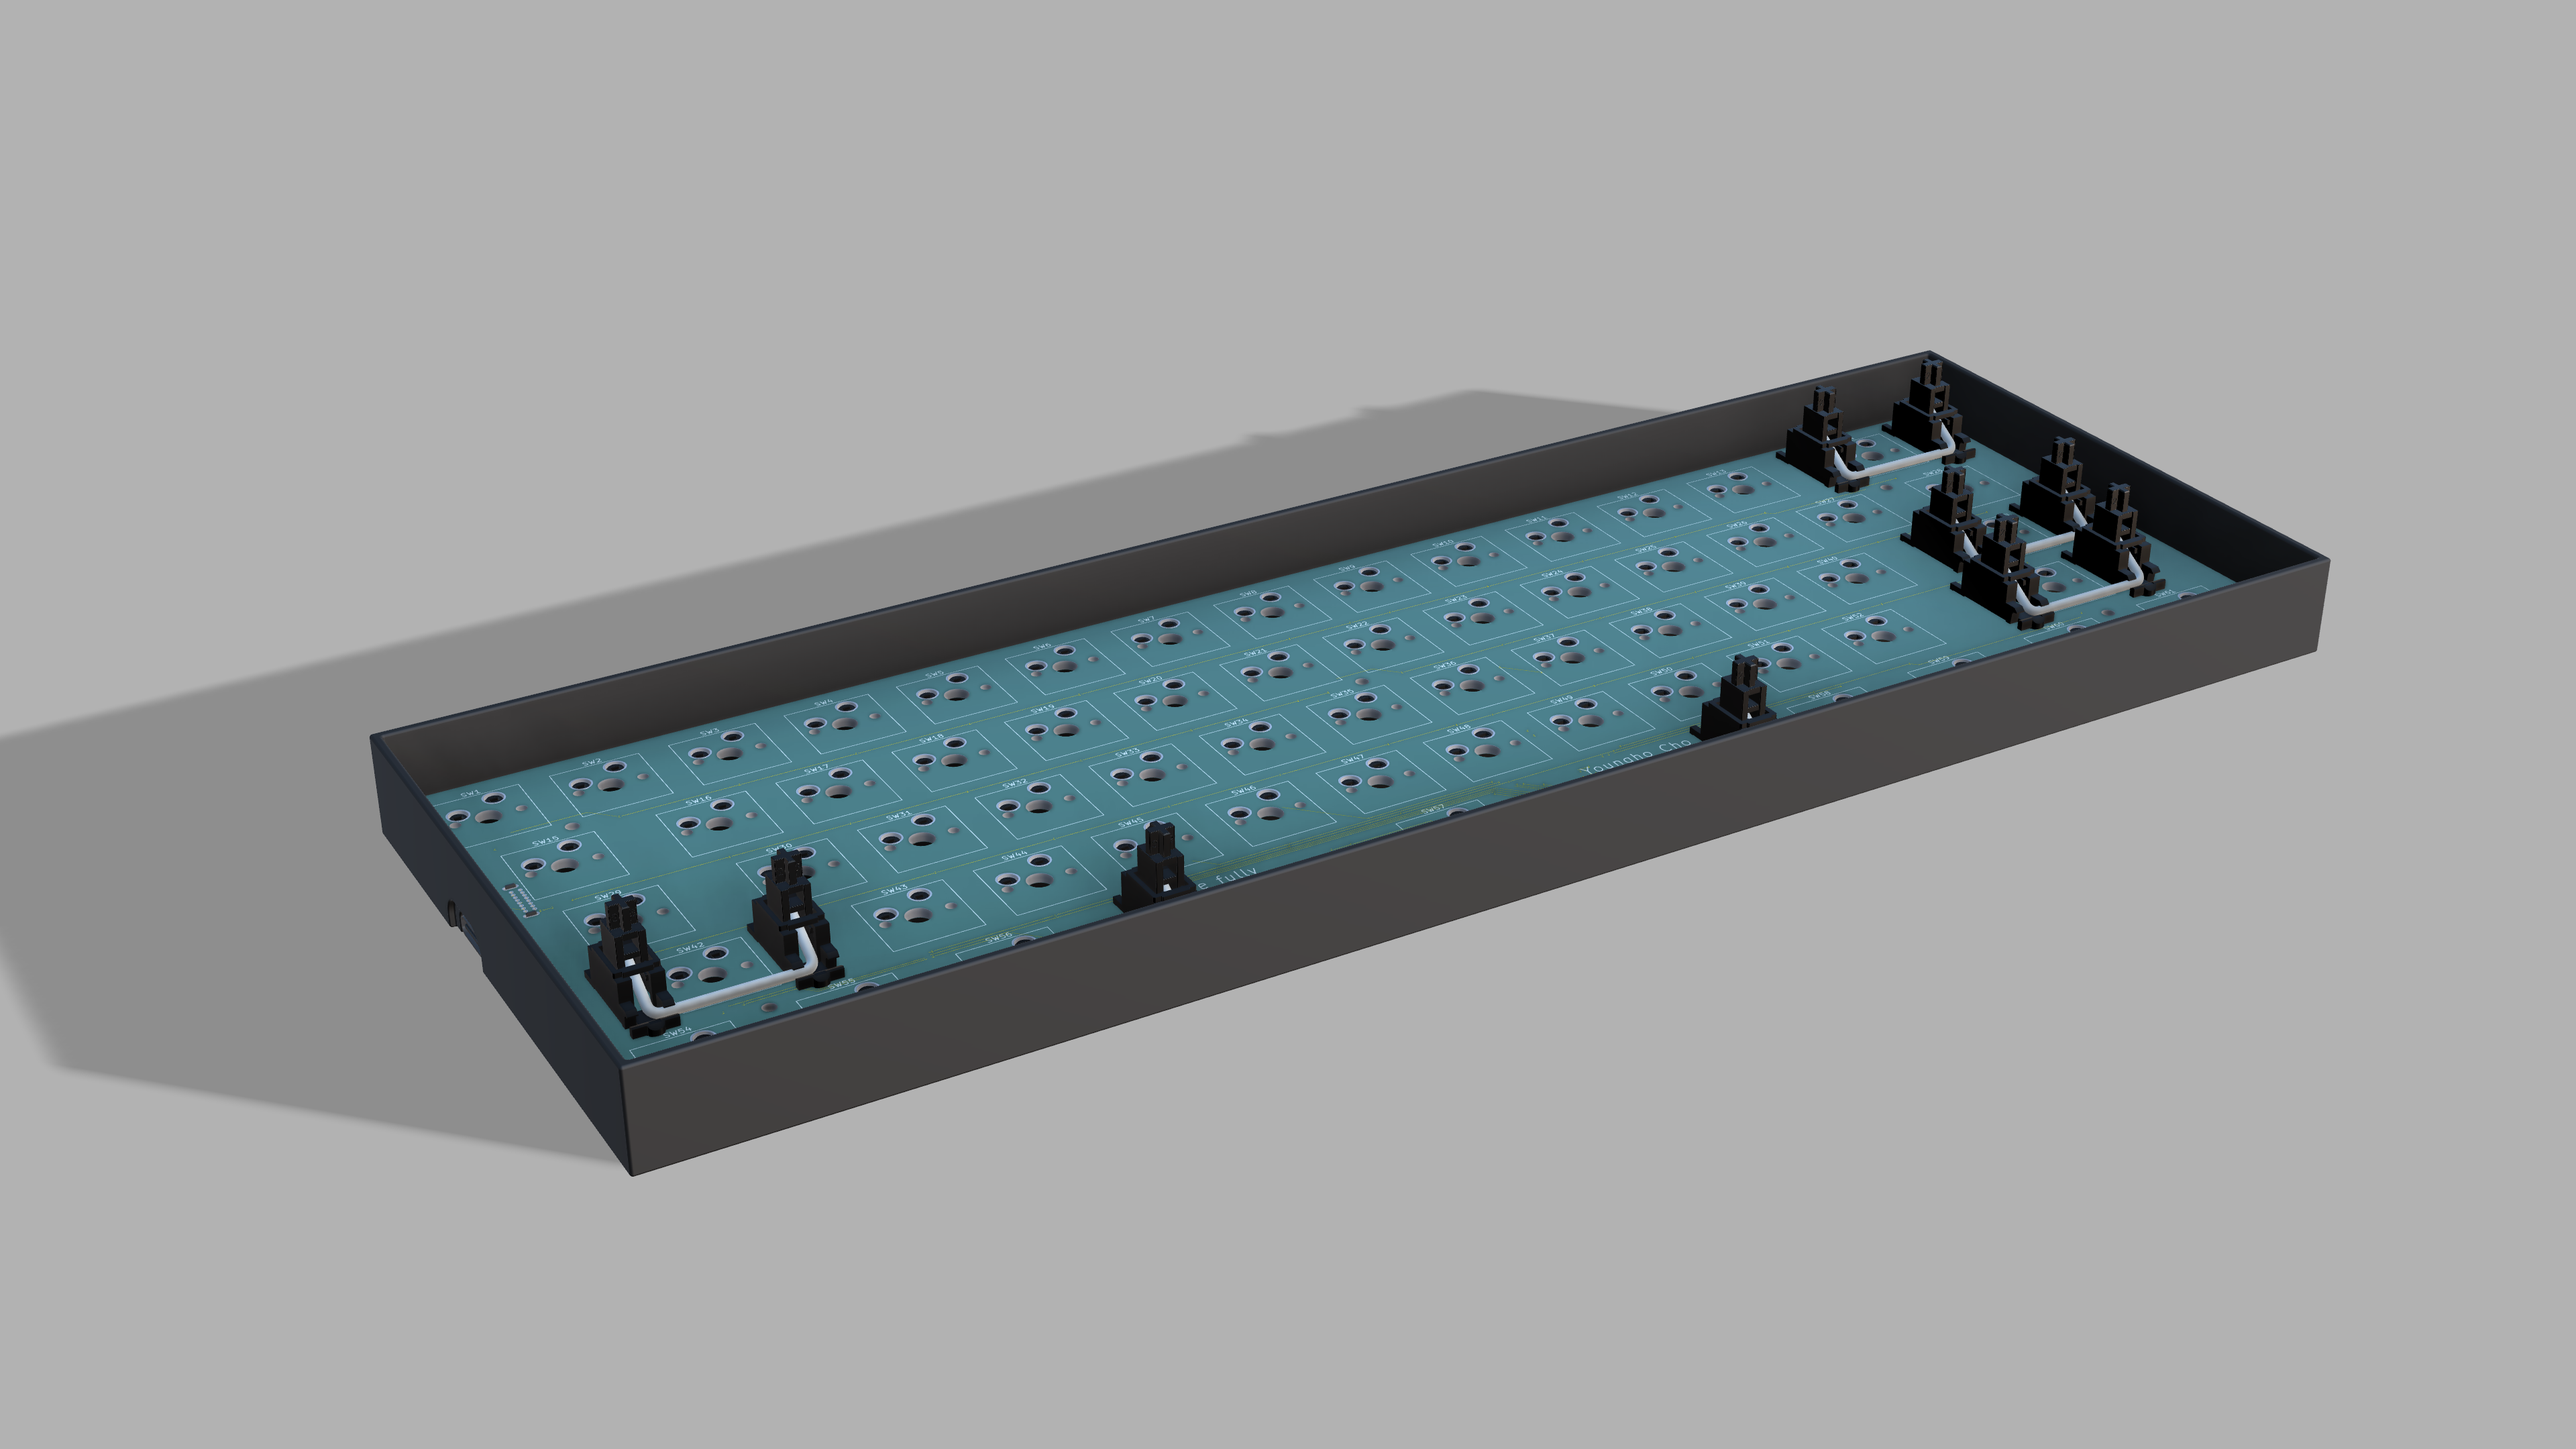
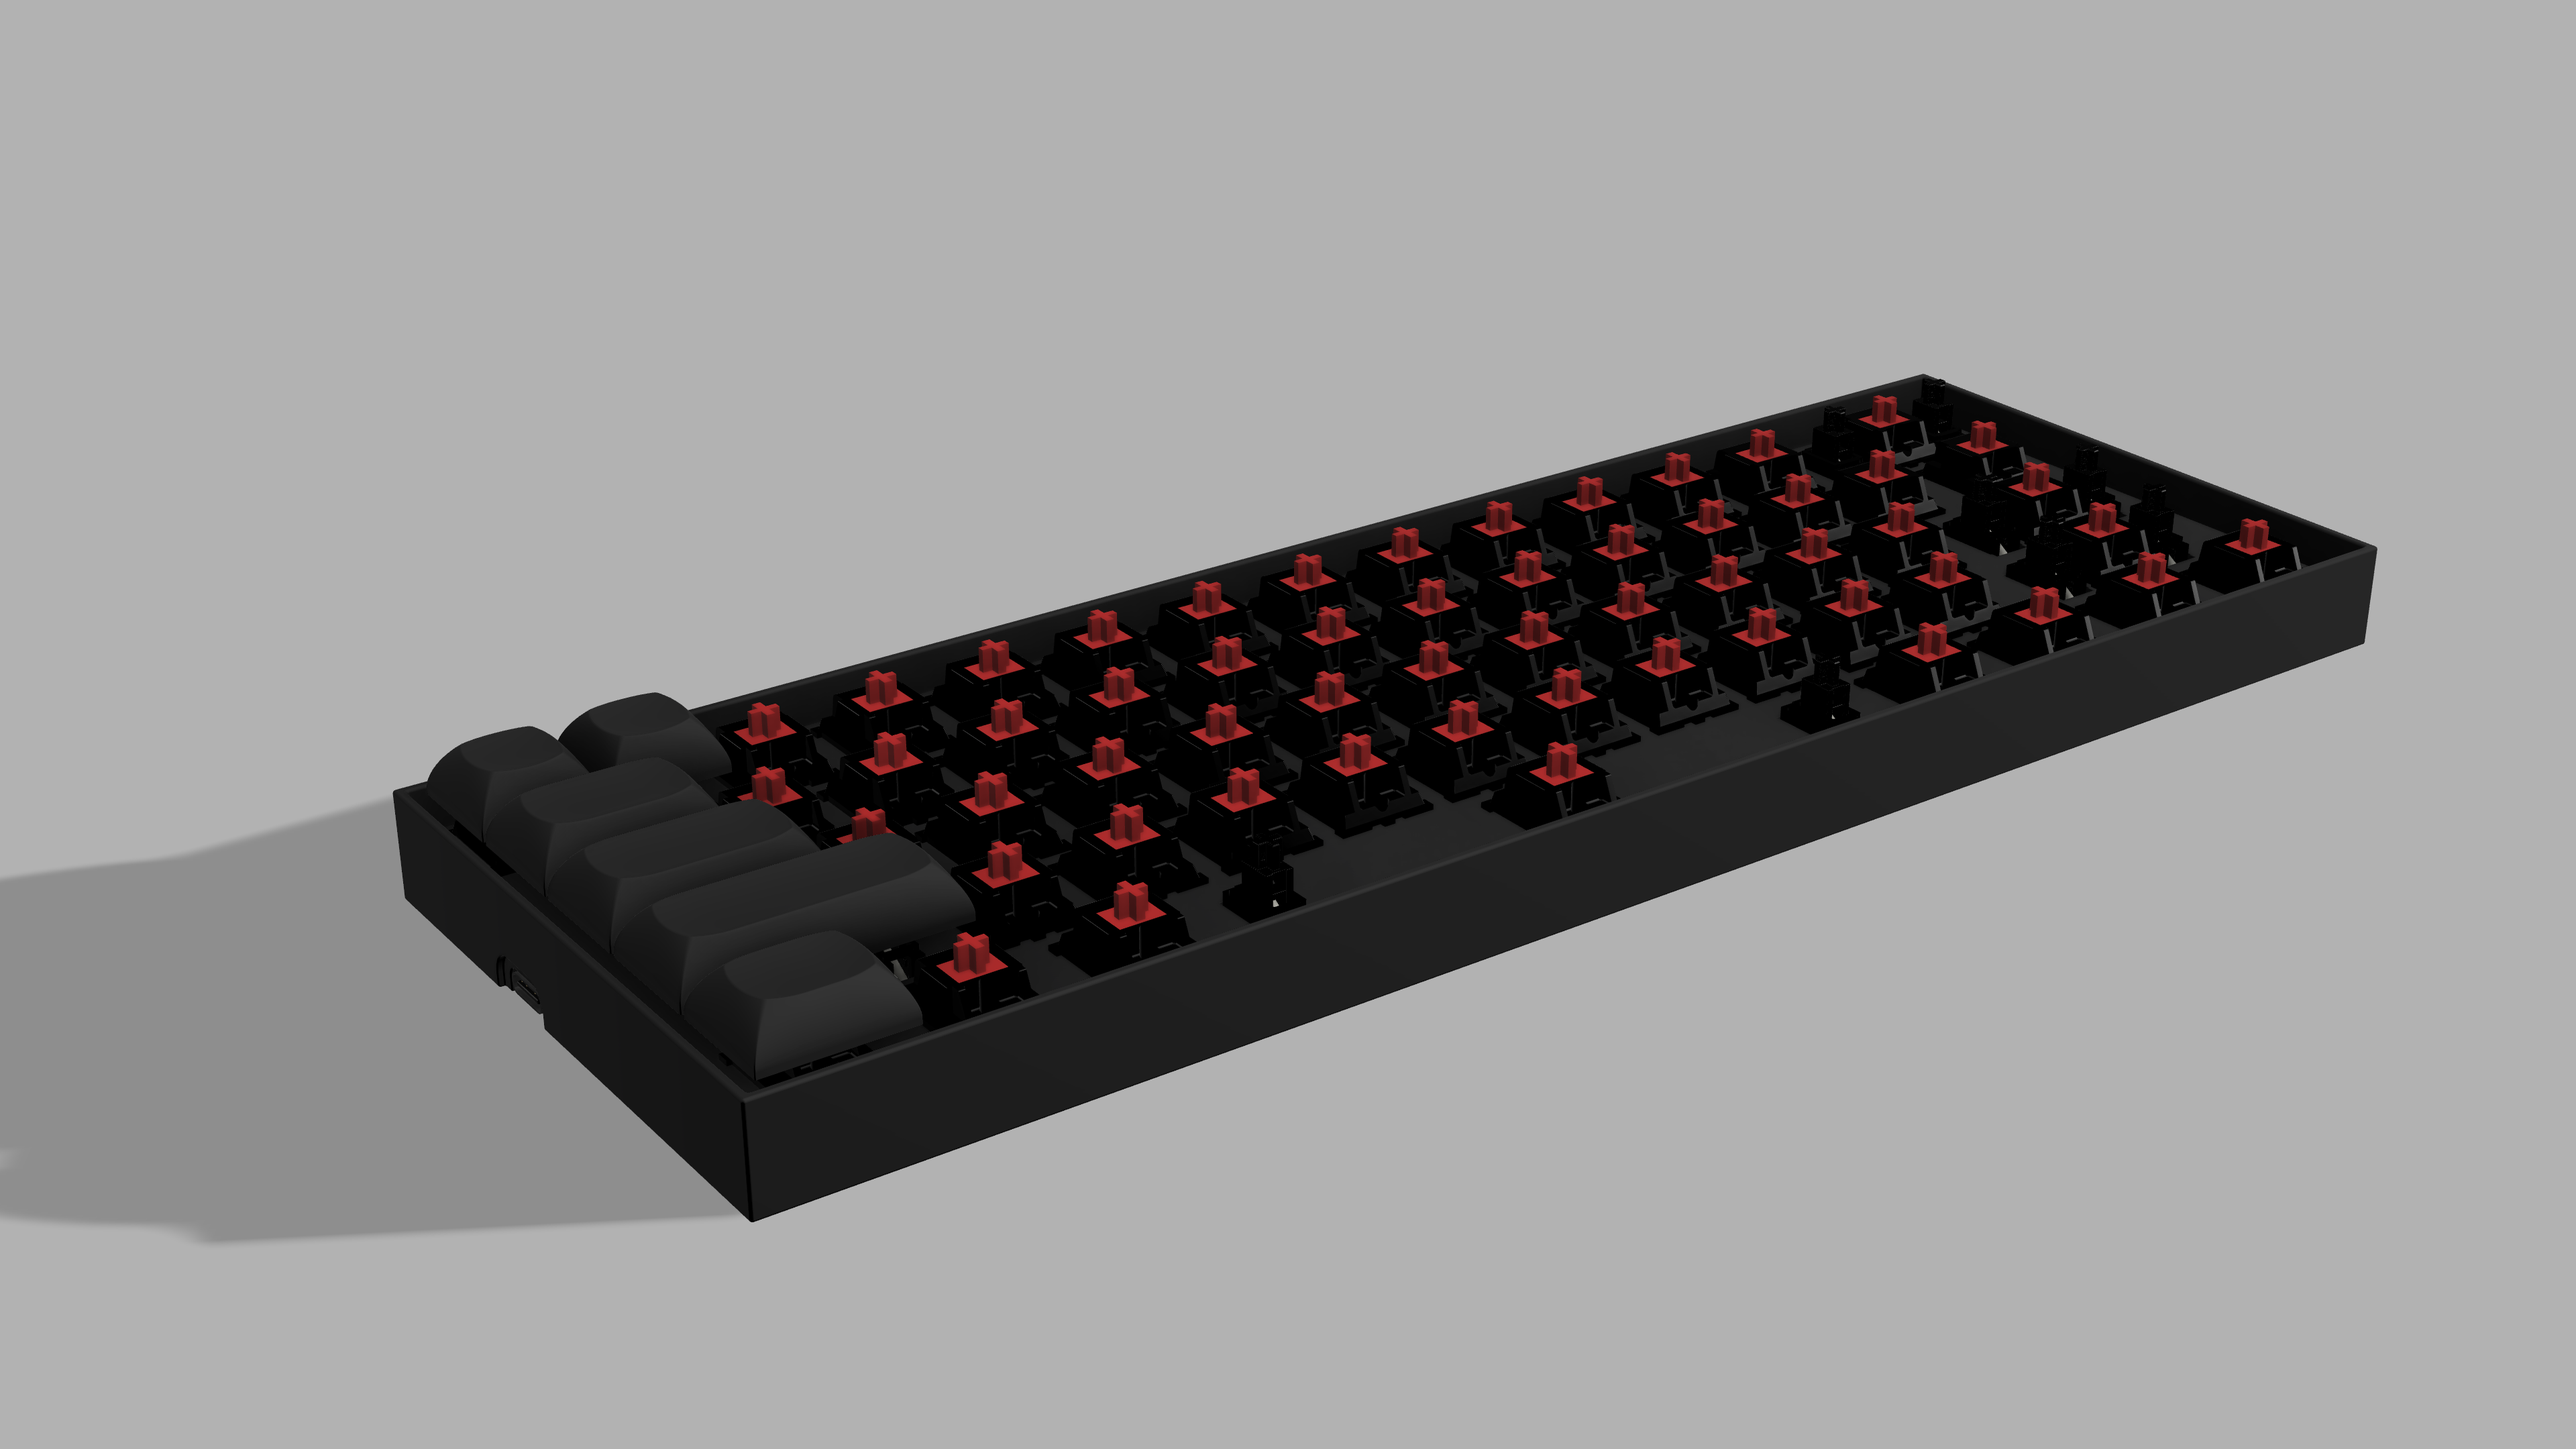
docs: udpate rendering images

Changed region(s): [[0.0, 0.2481, 0.9375, 0.8685]]

diff --git a/README.md b/README.md
@@ -14,3 +14,5 @@
 ![Rendering 1](img/rendering1.png)
 ![Rendering 2](img/rendering2.png)
 ![Rendering 3](img/rendering3.png)
+![Rendering 4](img/rendering4.png)
+![Rendering 5](img/rendering5.png)
